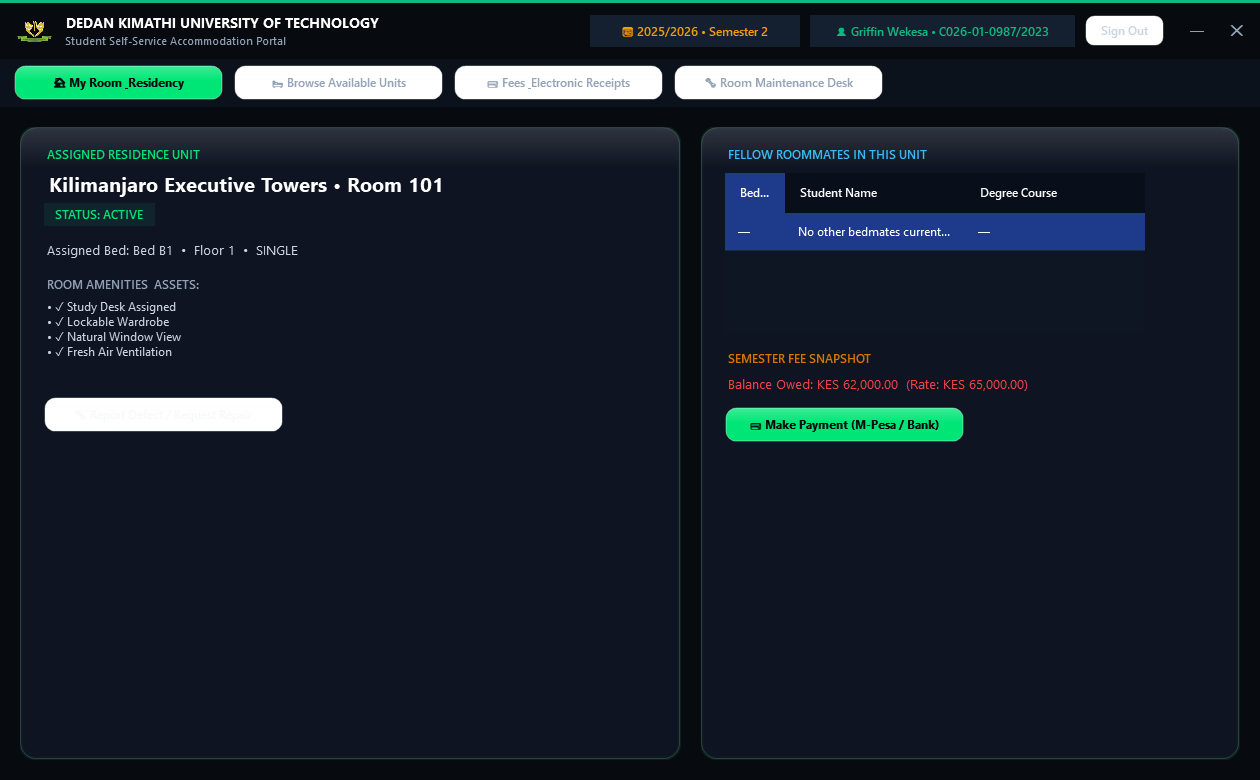
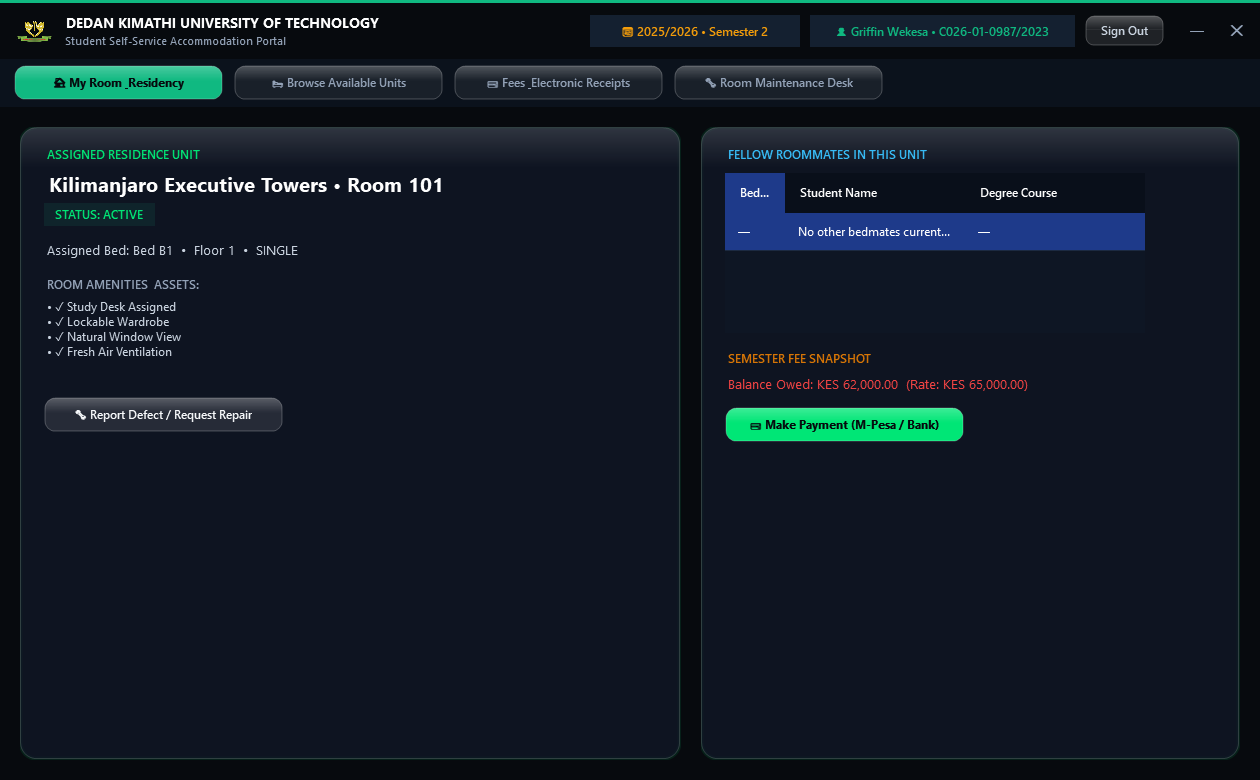
fix(ui): restore button contrast and integrate Apple/Segoe UI Variable typography system

Changed region(s): [[0.0, 0.0615, 0.7119, 0.1538], [0.031, 0.4923, 0.2476, 0.5538], [0.8357, 0.0, 0.9286, 0.0615]]

diff --git a/Assets/Fonts/README.md b/Assets/Fonts/README.md
@@ -1,0 +1,22 @@
+# Typography & Custom Fonts Directory
+
+This directory is monitored by `University_hostel_mgt.Helpers.ThemeManager`.
+
+## Automatic Font Resolution Stack
+1. **Apple SF Pro** (`SF Pro Display`, `SF Pro Text`, `San Francisco`)
+   - If `.otf` or `.ttf` font files are placed in this directory (or installed in Windows), `ThemeManager` automatically loads and applies them across the application via GDI+ `PrivateFontCollection`.
+2. **Microsoft Segoe UI Variable** (`Segoe UI Variable Display`, `Segoe UI Variable Text`, `Segoe UI Variable Small`)
+   - Pre-installed natively on modern Windows 11. Designed by Microsoft as the optical counterpart to Apple SF Pro.
+3. **Segoe UI**
+   - Universal high-legibility fallback for older Windows environments.
+
+## How to add Apple SF Pro fonts:
+Place any of the following font files directly in this folder:
+- `SF-Pro-Display-Bold.otf`
+- `SF-Pro-Display-Regular.otf`
+- `SF-Pro-Text-Regular.otf`
+- `SF-Pro-Text-Semibold.otf`
+- `SF-Pro-Text-Bold.otf`
+- `SF-Mono-Regular.otf`
+
+They will be loaded into application memory automatically on boot without requiring system administrator font installation.
